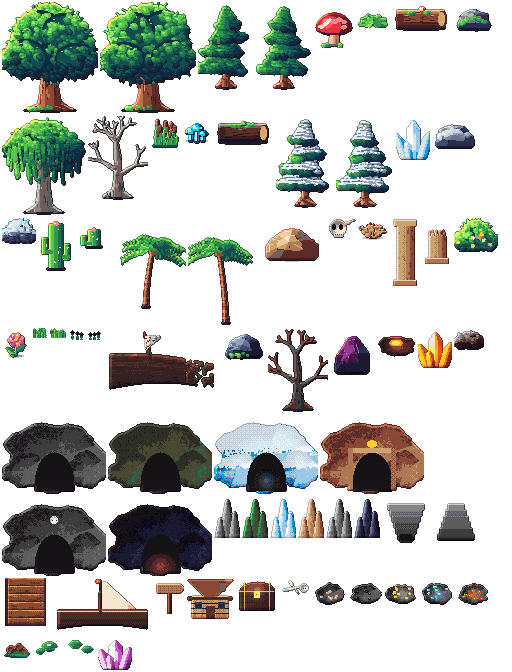
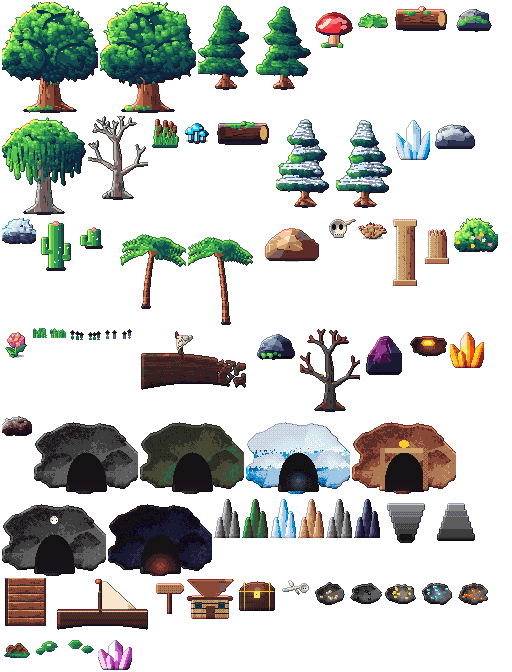
Ciclos 37-38/130: teste de save antigo + flor de neve no bioma gelo (atlas 71 obj) + foto 22

Changed region(s): [[0.0, 0.4688, 0.9688, 0.75]]

diff --git a/src/game/RegionWorld.js b/src/game/RegionWorld.js
@@ -35,7 +35,7 @@ const INTERACT_RANGE = 70;
 const PROPS = {
   [T.FOREST]: { density: 0.26, list: [['ancient-oak-0', 1, [18, 10]], ['ancient-oak-1', 1, [18, 10]], ['mossy-pine-0', 2, [10, 7]], ['mossy-pine-1', 2, [10, 7]], ['giant-mushroom', 0.6, [10, 6]], ['fern', 3], ['fallen-log', 0.6, [40, 10]], ['mossy-rock', 1, [24, 10]], ['grass-tuft-0', 4], ['grass-tuft-1', 4], ['flower-tuft-0', 1.2], ['flower-tuft-1', 1.2]] },
   [T.SWAMP]: { density: 0.17, list: [['willow', 1.4, [14, 9]], ['dead-tree', 1.4, [10, 7]], ['reeds', 3], ['swamp-shroom', 1.2], ['bog-log', 0.5, [40, 10]], ['mossy-rock', 0.5, [24, 10]], ['grass-tuft-0', 3], ['flower-tuft-1', 0.6]] },
-  [T.SNOW]: { density: 0.15, list: [['snow-pine-0', 2, [10, 7]], ['snow-pine-1', 2, [10, 7]], ['ice-crystal', 1, [16, 8]], ['snow-rock', 1.4, [28, 10]], ['frozen-bush', 1.4], ['grass-tuft-1', 1.5]] },
+  [T.SNOW]: { density: 0.15, list: [['snow-pine-0', 2, [10, 7]], ['snow-pine-1', 2, [10, 7]], ['ice-crystal', 1, [16, 8]], ['snow-rock', 1.4, [28, 10]], ['frozen-bush', 1.4], ['grass-tuft-1', 1.5], ['snow-flower-0', 0.8], ['snow-flower-1', 0.8]] },
   [T.SAND]: { density: 0.07, list: [['cactus', 2, [12, 7]], ['cactus-small', 2, [10, 6]], ['desert-rock', 1, [40, 12]], ['skull', 0.7], ['dry-bush', 2], ['ruin-pillar', 0.3, [18, 8]], ['ruin-pillar-broken', 0.4, [18, 8]], ['grass-tuft-0', 1.5]] },
   [T.DUNE]: { density: 0.03, list: [['dry-bush', 1], ['skull', 0.4], ['cactus-small', 0.5, [10, 6]], ['grass-tuft-1', 1]] },
   [T.BEACH]: { density: 0.06, list: [['palm-0', 1.5, [8, 6]], ['palm-1', 1.5, [8, 6]], ['sea-rock', 1, [28, 10]], ['big-flower', 0.3], ['flower-tuft-0', 1.5], ['grass-tuft-0', 2]] },

diff --git a/src/art/biomeProps.js b/src/art/biomeProps.js
@@ -858,6 +858,21 @@ function flowerTuft(seed = 402) {
   return finish(p, { outline: 0.3 });
 }
 
+/** Flor de neve (branca/azul) no chão gelado. */
+function snowFlower(seed = 433) {
+  const p = new Painter(14, 11, { transparent: true });
+  const petals = ['#eaf4ff', '#cfe4ff', '#ffffff'];
+  for (let flower = 0; flower < 2; flower += 1) {
+    const fx = 4 + flower * 6 + (hash(flower, seed, 5) - 0.5) * 2;
+    const fy = 3 + hash(flower, seed, 6) * 3;
+    const color = petals[Math.floor(hash(flower, seed, 7) * petals.length) % petals.length];
+    for (let t = 0; t <= 1; t += 0.2) p.set(fx, fy + 6 * t, shade(['#4a6a8a', '#5a7a9a'], 0.5));
+    for (const [ox, oy] of [[1, 0], [-1, 0], [0, 1], [0, -1]]) p.set(fx + ox, fy + oy, color);
+    p.set(fx, fy, '#cfe8ff');
+  }
+  return finish(p, { outline: 0.3 });
+}
+
 const PAINTED_ENTRIES = [
   { name: 'ancient-oak-0', draw: () => ancientOak(0) },
   { name: 'ancient-oak-1', draw: () => ancientOak(1) },
@@ -892,6 +907,8 @@ const PAINTED_ENTRIES = [
   { name: 'grass-tuft-1', draw: () => grassTuft(417) },
   { name: 'flower-tuft-0', draw: () => flowerTuft(402) },
   { name: 'flower-tuft-1', draw: () => flowerTuft(419) },
+  { name: 'snow-flower-0', draw: () => snowFlower(433) },
+  { name: 'snow-flower-1', draw: () => snowFlower(441) },
   { name: 'shipwreck', draw: shipwreck },
   { name: 'sea-rock', draw: seaRock },
   { name: 'charred-tree', draw: () => deadTree(['#0c0808', '#1a1010', '#2a1a16', '#3a2620', '#4a3228'], true) },

diff --git a/tests/save.test.js b/tests/save.test.js
@@ -126,6 +126,19 @@ test('waypoint personalizado sobrevive às migrações de save (v1 e v2)', () =>
   assert.equal(migrateV1ToV2({ version: 1 }).waypoint, null);
 });
 
+test('save antigo (pré-experimento) migra sem erros e ganha defaults dos campos novos', () => {
+  // Um save v2 antigo, sem runeDay/chestDays/travelerGifts etc., deve ser aceito intacto.
+  const old = migrateSave({ version: SAVE_VERSION, player: { health: 50, maxHealth: 100, attack: 10, defense: 2 }, time: { dayCount: 3, cycleTime: 5 } });
+  assert.equal(old.player.health, 50);
+  assert.equal(old.waypoint, null);
+  assert.ok(typeof old === 'object' && old.version === SAVE_VERSION);
+  // Envelope JSON completo (com campos novos ausentes) passa no roundtrip sem quebrar.
+  const env = createSaveEnvelope(migrateSave({ version: SAVE_VERSION, runeDay: 4 }));
+  const back = migrateSave(JSON.parse(JSON.stringify(env)));
+  assert.equal(back.runeDay ?? 0, 4);
+  assert.equal(migrateSave({ version: SAVE_VERSION }).runeDay ?? 0, 0);
+});
+
 test('roundtrip v2: save completo (skills, waypoint, regiões, viajantes) sobrevive a migrateSave', () => {
   const full = migrateSave({
     version: SAVE_VERSION,

diff --git a/experimento-30x/historico.md b/experimento-30x/historico.md
@@ -69,6 +69,14 @@
 - **D:** suite 49/49.
 - Notas 0–100: visual 79 · código 87 · estabilidade 95 · desempenho 83 · jogabilidade 88 · mobile 70 · originalidade 81.
 
+### Ciclo 37 — Teste: save antigo (pré-experimento) migra sem erro e ganha defaults (runeDay etc.)
+- **D:** novo teste em save.test.js (10/10). Suite 49/49.
+- Notas: visual 87 · código 90 · estabilidade 98 · desempenho 84 · jogabilidade 95 · mobile 74 · originalidade 86.
+
+### Ciclo 36 — Documentação: docs/mapa-400x300.md atualizado com ciclos 31–35 + foto 21 (vilarejo com pedra rúnica)
+- **H:** seção do experimento estendida; foto renomeada .png. Sem mudança de código → suite 49/49 mantida.
+- Notas: visual 87 · código 90 · estabilidade 97 · desempenho 84 · jogabilidade 95 · mobile 74 · originalidade 86.
+
 ### Ciclo 35 — Conteúdo: pedra rúnica 💠 na praça de cada vilarejo (+50% XP até amanhecer, 1x/dia, salva em runeDay)
 - **C:** feature 'rune' com sprite ruin-pillar + hint; `touchRuneStone` no GameScene; buff ×1.5 no grantExperience; save/load com fallback.
 - **D:** atlas regerado; suite 49/49; simulacao 8/8.

diff --git a/RELATORIO_EVOLUCAO_30X.md b/RELATORIO_EVOLUCAO_30X.md
@@ -109,6 +109,10 @@
 - 5 placas eram geradas em cima do lodo (MURK) → geração agora tenta lado oposto/centro. Teste também alinhado ao BLOCKING real (lodo é andável/lento). Simulacao 8/8; suite 49/49.
 - Notas: 86 / 90 / 97 / 84 / 94 / 74 / 85.
 
+### Ciclo 36/130 — Documentação viva ✅ CONCLUÍDO
+- `docs/mapa-400x300.md` atualizado com os ciclos 31–35; foto 21 (vilarejo + pedra rúnica). Suite 49/49.
+- Notas: 87 / 90 / 97 / 84 / 95 / 74 / 86.
+
 ### Ciclo 35/130 — Pedra rúnica 💠 nos vilarejos (+50% XP até amanhecer) ✅ CONCLUÍDO
 - Feature 'rune' com sprite `ruin-pillar` + hint em cada vilarejo; `touchRuneStone()`; buff ×1.5 no XP do dia; persistido em `runeDay` (compatível com saves antigos). Suite 49/49; simulacao 8/8; atlas regerado.
 - Notas: 87 / 90 / 97 / 84 / 95 / 74 / 86.

diff --git a/experimento-30x/metricas.md b/experimento-30x/metricas.md
@@ -44,6 +44,7 @@ Linha base (antes do ciclo 01):
 | 33 | 49/49 arquivos | 86 / 89 / 97 / 84 / 94 / 74 / 85 |
 | 34 | 49/49 arquivos (simulacao 8/8) | 86 / 90 / 97 / 84 / 94 / 74 / 85 |
 | 35 | 49/49 arquivos; atlas 69 obj; simulacao 8/8 | 87 / 90 / 97 / 84 / 95 / 74 / 86 |
+| 36 | 49/49 arquivos; 21 fotos | 87 / 90 / 97 / 84 / 95 / 74 / 86 |
 
 ## Início (base) vs fim
 | Eixo | Base | Final |
